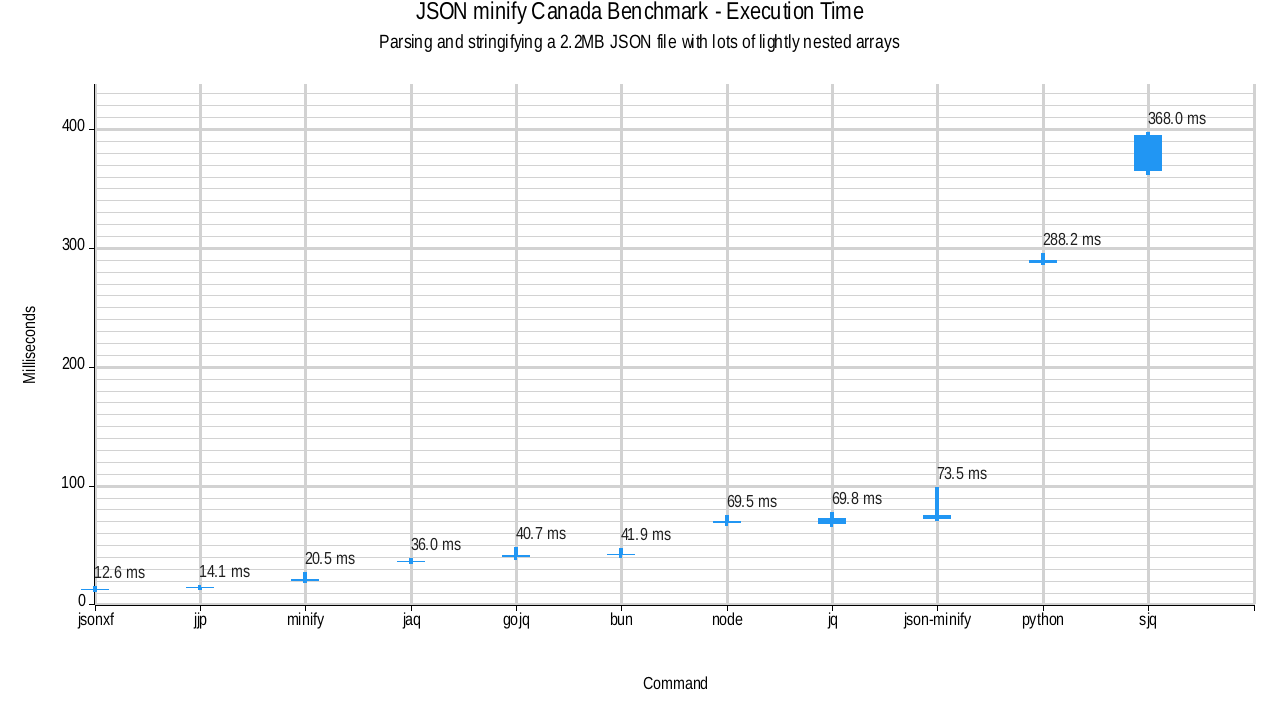
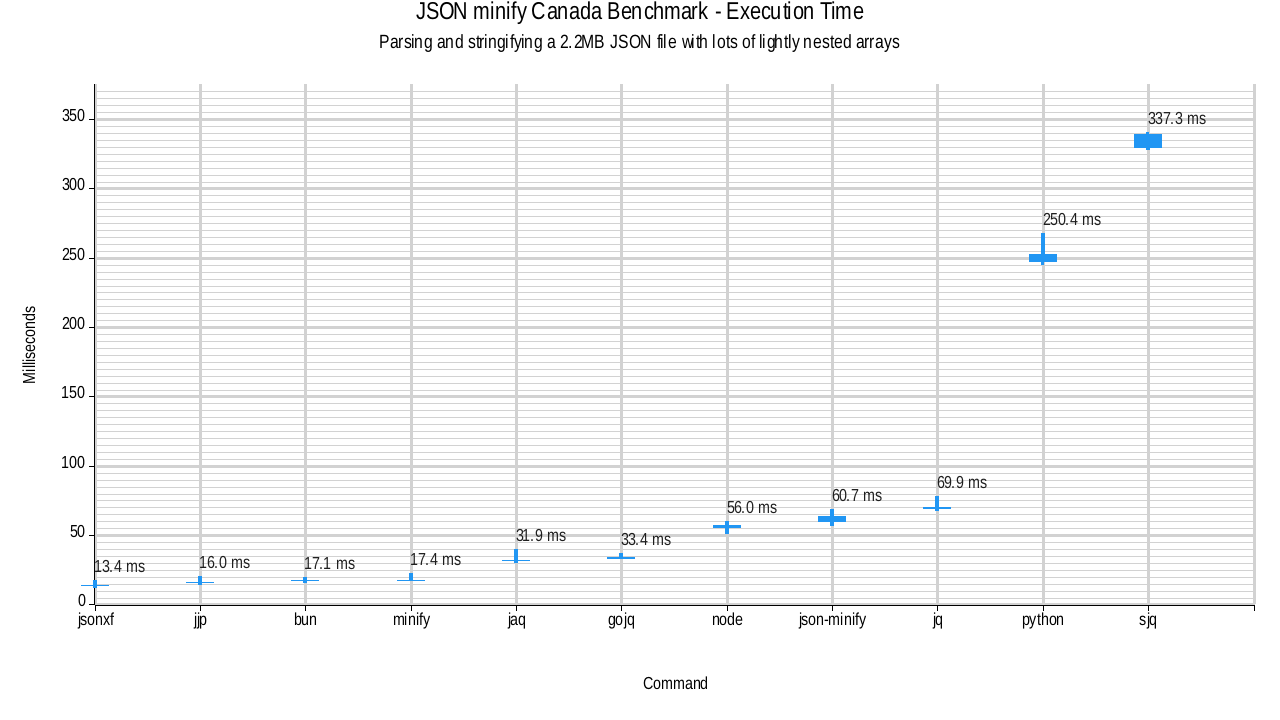
docs: regenerate cli formatter benchmarks with hyperfine 2

diff --git a/benches/cli-formatter.md b/benches/cli-formatter.md
@@ -21,41 +21,41 @@ The following JSON fixtures are used across benchmarks:
 
 ![candlestick benchmark for pretty printing canada.json](/benches/docker/output/pretty-canada.png)
 
-| Command        |     Mean [ms] | Min [ms] | Max [ms] |     Relative |
-| :------------- | ------------: | -------: | -------: | -----------: |
-| `jsonxf`       |    13.0 ± 0.9 |     12.0 |     18.7 |         1.00 |
-| `jsonformat`   |    14.2 ± 0.6 |     13.4 |     17.6 |  1.09 ± 0.09 |
-| `jsonice`      |    22.0 ± 1.3 |     20.3 |     28.5 |  1.69 ± 0.15 |
-| `json-pp-rust` |    29.9 ± 2.0 |     27.4 |     36.2 |  2.30 ± 0.22 |
-| `jjp`          |    34.1 ± 8.1 |     27.9 |     66.6 |  2.63 ± 0.65 |
-| `gojq`         |    39.0 ± 1.7 |     36.6 |     48.0 |  3.00 ± 0.24 |
-| `jaq`          |    48.6 ± 1.4 |     46.8 |     54.4 |  3.74 ± 0.27 |
-| `bun`          |    54.3 ± 2.2 |     51.8 |     61.9 |  4.18 ± 0.32 |
-| `node`         |    84.5 ± 1.4 |     81.6 |     87.3 |  6.51 ± 0.44 |
-| `jq`           |    93.2 ± 1.4 |     91.5 |     99.0 |  7.18 ± 0.49 |
-| `python`       |   313.0 ± 3.5 |    307.6 |    319.1 | 24.11 ± 1.61 |
-| `sjq`          |   465.8 ± 5.2 |    459.6 |    477.5 | 35.89 ± 2.40 |
-| `dprint`       |  670.6 ± 10.5 |    654.1 |    692.0 | 51.66 ± 3.50 |
-| `prettier`     | 1143.1 ± 28.5 |   1108.3 |   1206.0 | 88.06 ± 6.21 |
-| `oxfmt`        | 1188.2 ± 18.2 |   1171.0 |   1231.9 | 91.54 ± 6.19 |
+| Command        | Mean Wall Time [ms] |   Change | Factor         |
+| :------------- | ------------------: | -------: | :------------- |
+| `jjp`          |          29.6 ± 1.8 |          |                |
+| `json-pp-rust` |          27.0 ± 1.5 |    -8.6% |                |
+| `jsonice`      |          24.7 ± 0.3 |   -16.5% |                |
+| `prettier`     |       1091.1 ± 23.9 | +3586.0% | (36.9x slower) |
+| `jq`           |         102.2 ± 1.3 |  +245.4% | (3.5x slower)  |
+| `gojq`         |          38.8 ± 1.4 |   +31.0% | (1.3x slower)  |
+| `jaq`          |          41.7 ± 2.5 |   +41.0% | (1.4x slower)  |
+| `sjq`          |         419.9 ± 2.5 | +1318.5% | (14.2x slower) |
+| `dprint`       |         413.1 ± 7.3 | +1295.7% | (14.0x slower) |
+| `python`       |         274.8 ± 2.6 |  +828.4% | (9.3x slower)  |
+| `node`         |          67.7 ± 1.8 |  +128.7% | (2.3x slower)  |
+| `bun`          |          24.1 ± 0.7 |   -18.5% |                |
+| `jsonxf`       |          12.4 ± 0.3 |   -58.1% | (2.4x faster)  |
+| `jsonformat`   |          15.9 ± 0.9 |   -46.2% | (1.9x faster)  |
+| `oxfmt`        |          95.3 ± 5.5 |  +221.8% | (3.2x slower)  |
 
 ### ugly canada
 
 ![candlestick benchmark for ugly printing canada.json](/benches/docker/output/ugly-canada.png)
 
-| Command       |    Mean [ms] | Min [ms] | Max [ms] |     Relative |
-| :------------ | -----------: | -------: | -------: | -----------: |
-| `jsonxf`      |   12.6 ± 0.5 |     11.5 |     15.3 |         1.00 |
-| `jjp`         |   14.3 ± 0.6 |     13.3 |     16.8 |  1.13 ± 0.06 |
-| `minify`      |   20.9 ± 1.4 |     19.2 |     27.0 |  1.65 ± 0.13 |
-| `jaq`         |   36.1 ± 0.9 |     34.7 |     39.2 |  2.86 ± 0.13 |
-| `gojq`        |   41.2 ± 1.6 |     38.6 |     48.4 |  3.25 ± 0.18 |
-| `bun`         |   42.1 ± 1.2 |     40.2 |     47.2 |  3.33 ± 0.16 |
-| `node`        |   69.7 ± 1.6 |     66.5 |     75.1 |  5.51 ± 0.25 |
-| `jq`          |   70.5 ± 3.3 |     65.8 |     77.9 |  5.57 ± 0.34 |
-| `json-minify` |   74.5 ± 4.7 |     71.3 |     99.2 |  5.89 ± 0.44 |
-| `python`      |  289.0 ± 2.9 |    286.4 |    295.8 | 22.86 ± 0.91 |
-| `sjq`         | 377.5 ± 16.1 |    361.1 |    397.7 | 29.85 ± 1.72 |
+| Command       | Mean Wall Time [ms] |   Change | Factor         |
+| :------------ | ------------------: | -------: | :------------- |
+| `jjp`         |          16.2 ± 1.0 |          |                |
+| `json-minify` |          61.8 ± 3.1 |  +282.2% | (3.8x slower)  |
+| `jsonxf`      |          13.6 ± 0.9 |   -16.1% |                |
+| `jq`          |          70.1 ± 2.1 |  +333.6% | (4.3x slower)  |
+| `jaq`         |          32.1 ± 1.2 |   +98.7% | (2.0x slower)  |
+| `gojq`        |          33.6 ± 0.7 |  +107.9% | (2.1x slower)  |
+| `sjq`         |         335.1 ± 5.2 | +1971.6% | (20.7x slower) |
+| `python`      |         251.3 ± 6.4 | +1453.6% | (15.5x slower) |
+| `minify`      |          17.5 ± 0.6 |    +8.3% |                |
+| `node`        |          55.9 ± 1.8 |  +245.3% | (3.5x slower)  |
+| `bun`         |          17.1 ± 0.6 |    +5.4% |                |
 
 ## citm catalog
 
@@ -65,41 +65,41 @@ The following JSON fixtures are used across benchmarks:
 
 ![candlestick benchmark for pretty printing citm-catalog.json](/benches/docker/output/pretty-citm_catalog.png)
 
-| Command        |    Mean [ms] | Min [ms] | Max [ms] |       Relative |
-| :------------- | -----------: | -------: | -------: | -------------: |
-| `jsonxf`       |    4.9 ± 0.4 |      4.4 |      7.7 |           1.00 |
-| `jsonice`      |    7.9 ± 0.4 |      7.3 |     11.4 |    1.61 ± 0.15 |
-| `jsonformat`   |    8.2 ± 0.5 |      7.4 |     12.7 |    1.68 ± 0.17 |
-| `jjp`          |   11.2 ± 1.0 |     10.3 |     21.4 |    2.29 ± 0.26 |
-| `json-pp-rust` |   15.5 ± 1.3 |     14.0 |     23.9 |    3.18 ± 0.37 |
-| `jaq`          |   19.4 ± 0.9 |     18.3 |     25.5 |    3.97 ± 0.35 |
-| `gojq`         |   28.4 ± 1.4 |     26.8 |     36.4 |    5.80 ± 0.52 |
-| `jq`           |   36.6 ± 1.0 |     35.0 |     39.7 |    7.48 ± 0.60 |
-| `bun`          |   39.4 ± 1.6 |     37.1 |     44.1 |    8.05 ± 0.70 |
-| `node`         |   53.7 ± 2.2 |     50.9 |     60.1 |   10.98 ± 0.94 |
-| `sjq`          |  135.8 ± 2.6 |    133.1 |    144.3 |   27.76 ± 2.18 |
-| `dprint`       |  154.2 ± 4.8 |    148.7 |    168.6 |   31.52 ± 2.59 |
-| `python`       |  191.5 ± 3.1 |    187.2 |    199.2 |   39.14 ± 3.05 |
-| `prettier`     | 593.5 ± 19.0 |    579.3 |    640.5 | 121.32 ± 10.02 |
-| `oxfmt`        | 712.7 ± 15.1 |    696.1 |    746.2 | 145.68 ± 11.51 |
+| Command        | Mean Wall Time [ms] |   Change | Factor         |
+| :------------- | ------------------: | -------: | :------------- |
+| `jjp`          |           8.6 ± 0.2 |          |                |
+| `json-pp-rust` |          11.3 ± 1.2 |   +31.4% | (1.3x slower)  |
+| `jsonice`      |           6.4 ± 0.1 |   -25.5% |                |
+| `prettier`     |        502.0 ± 13.9 | +5741.6% | (58.4x slower) |
+| `jq`           |          31.7 ± 0.5 |  +269.1% | (3.7x slower)  |
+| `gojq`         |          19.4 ± 0.6 |  +125.6% | (2.3x slower)  |
+| `jaq`          |          15.0 ± 0.6 |   +74.1% | (1.7x slower)  |
+| `sjq`          |         106.8 ± 1.4 | +1142.5% | (12.4x slower) |
+| `dprint`       |         211.4 ± 3.3 | +2360.4% | (24.6x slower) |
+| `python`       |        171.3 ± 16.5 | +1893.2% | (19.9x slower) |
+| `node`         |          41.5 ± 2.7 |  +382.9% | (4.8x slower)  |
+| `bun`          |          13.7 ± 0.9 |   +60.0% | (1.6x slower)  |
+| `jsonxf`       |           3.4 ± 0.2 |   -60.6% | (2.5x faster)  |
+| `jsonformat`   |           5.2 ± 0.2 |   -39.4% | (1.7x faster)  |
+| `oxfmt`        |          49.3 ± 2.4 |  +473.7% | (5.7x slower)  |
 
 ### ugly citm catalog
 
 ![candlestick benchmark for ugly printing citm-catalog.json](/benches/docker/output/ugly-citm_catalog.png)
 
-| Command       |   Mean [ms] | Min [ms] | Max [ms] |     Relative |
-| :------------ | ----------: | -------: | -------: | -----------: |
-| `jsonxf`      |   4.7 ± 0.3 |      4.3 |      7.3 |         1.00 |
-| `jjp`         |   6.6 ± 0.4 |      6.1 |      9.2 |  1.41 ± 0.13 |
-| `minify`      |  14.9 ± 3.2 |     13.2 |     56.2 |  3.16 ± 0.72 |
-| `jaq`         |  15.8 ± 0.9 |     14.8 |     21.8 |  3.35 ± 0.30 |
-| `gojq`        |  27.9 ± 1.3 |     26.2 |     34.0 |  5.91 ± 0.51 |
-| `jq`          |  31.4 ± 1.2 |     30.0 |     37.4 |  6.65 ± 0.53 |
-| `bun`         |  33.8 ± 1.5 |     31.7 |     40.5 |  7.16 ± 0.60 |
-| `node`        |  46.9 ± 2.1 |     43.2 |     52.5 |  9.94 ± 0.83 |
-| `json-minify` |  50.1 ± 2.2 |     45.7 |     56.2 | 10.62 ± 0.89 |
-| `sjq`         | 112.8 ± 1.5 |    110.8 |    116.6 | 23.90 ± 1.73 |
-| `python`      | 186.0 ± 6.1 |    181.6 |    205.7 | 39.41 ± 3.08 |
+| Command       | Mean Wall Time [ms] |   Change | Factor         |
+| :------------ | ------------------: | -------: | :------------- |
+| `jjp`         |           5.0 ± 0.2 |          |                |
+| `json-minify` |          40.3 ± 1.9 |  +703.0% | (8.0x slower)  |
+| `jsonxf`      |           3.6 ± 0.1 |   -29.3% |                |
+| `jq`          |          27.0 ± 1.2 |  +436.6% | (5.4x slower)  |
+| `jaq`         |          12.8 ± 0.3 |  +154.3% | (2.5x slower)  |
+| `gojq`        |          18.9 ± 0.5 |  +276.2% | (3.8x slower)  |
+| `sjq`         |          88.3 ± 1.1 | +1658.0% | (17.6x slower) |
+| `python`      |         150.2 ± 1.2 | +2889.7% | (29.9x slower) |
+| `minify`      |           7.3 ± 0.3 |   +45.8% | (1.5x slower)  |
+| `node`        |          34.7 ± 1.6 |  +591.5% | (6.9x slower)  |
+| `bun`         |           9.9 ± 0.3 |   +97.5% | (2.0x slower)  |
 
 ## twitter
 
@@ -109,38 +109,38 @@ The following JSON fixtures are used across benchmarks:
 
 ![candlestick benchmark for pretty printing twitter.json](/benches/docker/output/pretty-twitter.png)
 
-| Command        |    Mean [ms] | Min [ms] | Max [ms] |       Relative |
-| :------------- | -----------: | -------: | -------: | -------------: |
-| `jsonxf`       |    2.1 ± 0.3 |      1.7 |      4.6 |           1.00 |
-| `jsonformat`   |    3.7 ± 0.3 |      3.3 |      6.2 |    1.70 ± 0.29 |
-| `jsonice`      |    4.1 ± 0.3 |      3.6 |      6.7 |    1.91 ± 0.33 |
-| `jjp`          |    5.3 ± 0.4 |      4.7 |      7.7 |    2.47 ± 0.42 |
-| `json-pp-rust` |    6.4 ± 0.5 |      5.8 |      9.4 |    2.98 ± 0.50 |
-| `jaq`          |   10.0 ± 0.5 |      9.3 |     13.0 |    4.68 ± 0.76 |
-| `gojq`         |   15.2 ± 2.1 |     13.0 |     39.0 |    7.09 ± 1.46 |
-| `jq`           |   17.2 ± 0.6 |     16.5 |     20.0 |    8.00 ± 1.26 |
-| `bun`          |   26.6 ± 1.1 |     24.8 |     31.2 |   12.42 ± 1.97 |
-| `node`         |   43.6 ± 2.1 |     40.8 |     51.3 |   20.33 ± 3.27 |
-| `sjq`          |   45.1 ± 1.5 |     43.2 |     50.6 |   21.02 ± 3.30 |
-| `dprint`       |   61.6 ± 1.5 |     59.1 |     65.0 |   28.72 ± 4.47 |
-| `python`       |  162.7 ± 5.9 |    156.6 |    181.0 |  75.86 ± 11.96 |
-| `prettier`     | 359.8 ± 16.8 |    333.6 |    385.7 | 167.83 ± 26.93 |
-| `oxfmt`        | 444.5 ± 13.6 |    431.5 |    478.5 | 207.30 ± 32.44 |
+| Command        | Mean Wall Time [ms] |   Change | Factor         |
+| :------------- | ------------------: | -------: | :------------- |
+| `jjp`          |           4.2 ± 0.1 |          |                |
+| `json-pp-rust` |           5.2 ± 0.1 |   +22.6% |                |
+| `jsonice`      |           3.9 ± 0.1 |    -7.3% |                |
+| `prettier`     |         275.4 ± 5.8 | +6439.0% | (65.4x slower) |
+| `jq`           |          15.5 ± 0.7 |  +267.4% | (3.7x slower)  |
+| `gojq`         |          12.1 ± 0.8 |  +186.2% | (2.9x slower)  |
+| `jaq`          |           8.4 ± 0.6 |  +100.0% | (2.0x slower)  |
+| `sjq`          |          40.5 ± 0.6 |  +862.1% | (9.6x slower)  |
+| `dprint`       |          42.8 ± 1.0 |  +916.7% | (10.2x slower) |
+| `python`       |         126.4 ± 1.4 | +2901.9% | (30.0x slower) |
+| `node`         |          32.4 ± 1.4 |  +669.6% | (7.7x slower)  |
+| `bun`          |           8.1 ± 0.3 |   +93.1% | (1.9x slower)  |
+| `jsonxf`       |           1.7 ± 0.1 |   -58.6% | (2.4x faster)  |
+| `jsonformat`   |           3.2 ± 0.1 |   -24.3% |                |
+| `oxfmt`        |          44.1 ± 2.1 |  +946.0% | (10.5x slower) |
 
 ### ugly twitter
 
 ![candlestick benchmark for ugly printing twitter.json](/benches/docker/output/ugly-twitter.png)
 
-| Command       |   Mean [ms] | Min [ms] | Max [ms] |     Relative |
-| :------------ | ----------: | -------: | -------: | -----------: |
-| `jsonxf`      |   2.2 ± 0.2 |      1.9 |      3.7 |         1.00 |
-| `jjp`         |   4.0 ± 0.3 |      3.6 |      6.7 |  1.84 ± 0.23 |
-| `minify`      |   7.7 ± 2.1 |      6.6 |     46.2 |  3.50 ± 1.02 |
-| `jaq`         |   9.0 ± 0.6 |      8.3 |     13.3 |  4.07 ± 0.46 |
-| `gojq`        |  14.1 ± 0.7 |     12.8 |     16.5 |  6.42 ± 0.67 |
-| `jq`          |  14.9 ± 1.1 |     13.8 |     20.7 |  6.78 ± 0.80 |
-| `bun`         |  26.1 ± 1.7 |     23.6 |     33.8 | 11.86 ± 1.32 |
-| `sjq`         |  39.2 ± 2.2 |     37.0 |     49.5 | 17.85 ± 1.92 |
-| `node`        |  41.5 ± 2.5 |     38.9 |     54.6 | 18.87 ± 2.07 |
-| `json-minify` |  43.4 ± 1.6 |     40.8 |     47.1 | 19.74 ± 1.95 |
-| `python`      | 161.1 ± 4.6 |    156.7 |    174.6 | 73.26 ± 7.03 |
+| Command       | Mean Wall Time [ms] |   Change | Factor         |
+| :------------ | ------------------: | -------: | :------------- |
+| `jjp`         |           3.0 ± 0.1 |          |                |
+| `json-minify` |          33.5 ± 1.8 | +1032.1% | (11.3x slower) |
+| `jsonxf`      |           1.7 ± 0.1 |   -42.2% | (1.7x faster)  |
+| `jq`          |          13.6 ± 0.4 |  +358.6% | (4.6x slower)  |
+| `jaq`         |           7.5 ± 0.3 |  +152.2% | (2.5x slower)  |
+| `gojq`        |          11.4 ± 0.4 |  +286.2% | (3.9x slower)  |
+| `sjq`         |          34.8 ± 1.2 | +1076.4% | (11.8x slower) |
+| `python`      |         124.1 ± 2.2 | +4095.8% | (42.0x slower) |
+| `minify`      |           5.4 ± 0.4 |   +81.5% | (1.8x slower)  |
+| `node`        |          30.2 ± 1.0 |  +921.2% | (10.2x slower) |
+| `bun`         |           8.0 ± 0.7 |  +171.6% | (2.7x slower)  |

diff --git a/benches/docker/output/pretty-citm_catalog.md b/benches/docker/output/pretty-citm_catalog.md
@@ -1,17 +1,17 @@
-| Command | Mean [ms] | Min [ms] | Max [ms] | Relative |
-|:---|---:|---:|---:|---:|
-| `jsonxf` | 4.9 ± 0.4 | 4.4 | 7.7 | 1.00 |
-| `jsonice` | 7.9 ± 0.4 | 7.3 | 11.4 | 1.61 ± 0.15 |
-| `jsonformat` | 8.2 ± 0.5 | 7.4 | 12.7 | 1.68 ± 0.17 |
-| `jjp` | 11.2 ± 1.0 | 10.3 | 21.4 | 2.29 ± 0.26 |
-| `json-pp-rust` | 15.5 ± 1.3 | 14.0 | 23.9 | 3.18 ± 0.37 |
-| `jaq` | 19.4 ± 0.9 | 18.3 | 25.5 | 3.97 ± 0.35 |
-| `gojq` | 28.4 ± 1.4 | 26.8 | 36.4 | 5.80 ± 0.52 |
-| `jq` | 36.6 ± 1.0 | 35.0 | 39.7 | 7.48 ± 0.60 |
-| `bun` | 39.4 ± 1.6 | 37.1 | 44.1 | 8.05 ± 0.70 |
-| `node` | 53.7 ± 2.2 | 50.9 | 60.1 | 10.98 ± 0.94 |
-| `sjq` | 135.8 ± 2.6 | 133.1 | 144.3 | 27.76 ± 2.18 |
-| `dprint` | 154.2 ± 4.8 | 148.7 | 168.6 | 31.52 ± 2.59 |
-| `python` | 191.5 ± 3.1 | 187.2 | 199.2 | 39.14 ± 3.05 |
-| `prettier` | 593.5 ± 19.0 | 579.3 | 640.5 | 121.32 ± 10.02 |
-| `oxfmt` | 712.7 ± 15.1 | 696.1 | 746.2 | 145.68 ± 11.51 |
+| Command | Mean Wall Time [ms] | Change | Factor |
+|:---|---:|---:|:---|
+| `jjp` | 8.6 ± 0.2 |  |  |
+| `json-pp-rust` | 11.3 ± 1.2 | +31.4% | (1.3x slower) |
+| `jsonice` | 6.4 ± 0.1 | -25.5% |  |
+| `prettier` | 502.0 ± 13.9 | +5741.6% | (58.4x slower) |
+| `jq` | 31.7 ± 0.5 | +269.1% | (3.7x slower) |
+| `gojq` | 19.4 ± 0.6 | +125.6% | (2.3x slower) |
+| `jaq` | 15.0 ± 0.6 | +74.1% | (1.7x slower) |
+| `sjq` | 106.8 ± 1.4 | +1142.5% | (12.4x slower) |
+| `dprint` | 211.4 ± 3.3 | +2360.4% | (24.6x slower) |
+| `python` | 171.3 ± 16.5 | +1893.2% | (19.9x slower) |
+| `node` | 41.5 ± 2.7 | +382.9% | (4.8x slower) |
+| `bun` | 13.7 ± 0.9 | +60.0% | (1.6x slower) |
+| `jsonxf` | 3.4 ± 0.2 | -60.6% | (2.5x faster) |
+| `jsonformat` | 5.2 ± 0.2 | -39.4% | (1.7x faster) |
+| `oxfmt` | 49.3 ± 2.4 | +473.7% | (5.7x slower) |

diff --git a/benches/docker/output/pretty-canada.md b/benches/docker/output/pretty-canada.md
@@ -1,17 +1,17 @@
-| Command | Mean [ms] | Min [ms] | Max [ms] | Relative |
-|:---|---:|---:|---:|---:|
-| `jsonxf` | 13.0 ± 0.9 | 12.0 | 18.7 | 1.00 |
-| `jsonformat` | 14.2 ± 0.6 | 13.4 | 17.6 | 1.09 ± 0.09 |
-| `jsonice` | 22.0 ± 1.3 | 20.3 | 28.5 | 1.69 ± 0.15 |
-| `json-pp-rust` | 29.9 ± 2.0 | 27.4 | 36.2 | 2.30 ± 0.22 |
-| `jjp` | 34.1 ± 8.1 | 27.9 | 66.6 | 2.63 ± 0.65 |
-| `gojq` | 39.0 ± 1.7 | 36.6 | 48.0 | 3.00 ± 0.24 |
-| `jaq` | 48.6 ± 1.4 | 46.8 | 54.4 | 3.74 ± 0.27 |
-| `bun` | 54.3 ± 2.2 | 51.8 | 61.9 | 4.18 ± 0.32 |
-| `node` | 84.5 ± 1.4 | 81.6 | 87.3 | 6.51 ± 0.44 |
-| `jq` | 93.2 ± 1.4 | 91.5 | 99.0 | 7.18 ± 0.49 |
-| `python` | 313.0 ± 3.5 | 307.6 | 319.1 | 24.11 ± 1.61 |
-| `sjq` | 465.8 ± 5.2 | 459.6 | 477.5 | 35.89 ± 2.40 |
-| `dprint` | 670.6 ± 10.5 | 654.1 | 692.0 | 51.66 ± 3.50 |
-| `prettier` | 1143.1 ± 28.5 | 1108.3 | 1206.0 | 88.06 ± 6.21 |
-| `oxfmt` | 1188.2 ± 18.2 | 1171.0 | 1231.9 | 91.54 ± 6.19 |
+| Command | Mean Wall Time [ms] | Change | Factor |
+|:---|---:|---:|:---|
+| `jjp` | 29.6 ± 1.8 |  |  |
+| `json-pp-rust` | 27.0 ± 1.5 | -8.6% |  |
+| `jsonice` | 24.7 ± 0.3 | -16.5% |  |
+| `prettier` | 1091.1 ± 23.9 | +3586.0% | (36.9x slower) |
+| `jq` | 102.2 ± 1.3 | +245.4% | (3.5x slower) |
+| `gojq` | 38.8 ± 1.4 | +31.0% | (1.3x slower) |
+| `jaq` | 41.7 ± 2.5 | +41.0% | (1.4x slower) |
+| `sjq` | 419.9 ± 2.5 | +1318.5% | (14.2x slower) |
+| `dprint` | 413.1 ± 7.3 | +1295.7% | (14.0x slower) |
+| `python` | 274.8 ± 2.6 | +828.4% | (9.3x slower) |
+| `node` | 67.7 ± 1.8 | +128.7% | (2.3x slower) |
+| `bun` | 24.1 ± 0.7 | -18.5% |  |
+| `jsonxf` | 12.4 ± 0.3 | -58.1% | (2.4x faster) |
+| `jsonformat` | 15.9 ± 0.9 | -46.2% | (1.9x faster) |
+| `oxfmt` | 95.3 ± 5.5 | +221.8% | (3.2x slower) |

diff --git a/benches/docker/output/pretty-twitter.md b/benches/docker/output/pretty-twitter.md
@@ -1,17 +1,17 @@
-| Command | Mean [ms] | Min [ms] | Max [ms] | Relative |
-|:---|---:|---:|---:|---:|
-| `jsonxf` | 2.1 ± 0.3 | 1.7 | 4.6 | 1.00 |
-| `jsonformat` | 3.7 ± 0.3 | 3.3 | 6.2 | 1.70 ± 0.29 |
-| `jsonice` | 4.1 ± 0.3 | 3.6 | 6.7 | 1.91 ± 0.33 |
-| `jjp` | 5.3 ± 0.4 | 4.7 | 7.7 | 2.47 ± 0.42 |
-| `json-pp-rust` | 6.4 ± 0.5 | 5.8 | 9.4 | 2.98 ± 0.50 |
-| `jaq` | 10.0 ± 0.5 | 9.3 | 13.0 | 4.68 ± 0.76 |
-| `gojq` | 15.2 ± 2.1 | 13.0 | 39.0 | 7.09 ± 1.46 |
-| `jq` | 17.2 ± 0.6 | 16.5 | 20.0 | 8.00 ± 1.26 |
-| `bun` | 26.6 ± 1.1 | 24.8 | 31.2 | 12.42 ± 1.97 |
-| `node` | 43.6 ± 2.1 | 40.8 | 51.3 | 20.33 ± 3.27 |
-| `sjq` | 45.1 ± 1.5 | 43.2 | 50.6 | 21.02 ± 3.30 |
-| `dprint` | 61.6 ± 1.5 | 59.1 | 65.0 | 28.72 ± 4.47 |
-| `python` | 162.7 ± 5.9 | 156.6 | 181.0 | 75.86 ± 11.96 |
-| `prettier` | 359.8 ± 16.8 | 333.6 | 385.7 | 167.83 ± 26.93 |
-| `oxfmt` | 444.5 ± 13.6 | 431.5 | 478.5 | 207.30 ± 32.44 |
+| Command | Mean Wall Time [ms] | Change | Factor |
+|:---|---:|---:|:---|
+| `jjp` | 4.2 ± 0.1 |  |  |
+| `json-pp-rust` | 5.2 ± 0.1 | +22.6% |  |
+| `jsonice` | 3.9 ± 0.1 | -7.3% |  |
+| `prettier` | 275.4 ± 5.8 | +6439.0% | (65.4x slower) |
+| `jq` | 15.5 ± 0.7 | +267.4% | (3.7x slower) |
+| `gojq` | 12.1 ± 0.8 | +186.2% | (2.9x slower) |
+| `jaq` | 8.4 ± 0.6 | +100.0% | (2.0x slower) |
+| `sjq` | 40.5 ± 0.6 | +862.1% | (9.6x slower) |
+| `dprint` | 42.8 ± 1.0 | +916.7% | (10.2x slower) |
+| `python` | 126.4 ± 1.4 | +2901.9% | (30.0x slower) |
+| `node` | 32.4 ± 1.4 | +669.6% | (7.7x slower) |
+| `bun` | 8.1 ± 0.3 | +93.1% | (1.9x slower) |
+| `jsonxf` | 1.7 ± 0.1 | -58.6% | (2.4x faster) |
+| `jsonformat` | 3.2 ± 0.1 | -24.3% |  |
+| `oxfmt` | 44.1 ± 2.1 | +946.0% | (10.5x slower) |

diff --git a/benches/docker/output/ugly-twitter.md b/benches/docker/output/ugly-twitter.md
@@ -1,13 +1,13 @@
-| Command | Mean [ms] | Min [ms] | Max [ms] | Relative |
-|:---|---:|---:|---:|---:|
-| `jsonxf` | 2.2 ± 0.2 | 1.9 | 3.7 | 1.00 |
-| `jjp` | 4.0 ± 0.3 | 3.6 | 6.7 | 1.84 ± 0.23 |
-| `minify` | 7.7 ± 2.1 | 6.6 | 46.2 | 3.50 ± 1.02 |
-| `jaq` | 9.0 ± 0.6 | 8.3 | 13.3 | 4.07 ± 0.46 |
-| `gojq` | 14.1 ± 0.7 | 12.8 | 16.5 | 6.42 ± 0.67 |
-| `jq` | 14.9 ± 1.1 | 13.8 | 20.7 | 6.78 ± 0.80 |
-| `bun` | 26.1 ± 1.7 | 23.6 | 33.8 | 11.86 ± 1.32 |
-| `sjq` | 39.2 ± 2.2 | 37.0 | 49.5 | 17.85 ± 1.92 |
-| `node` | 41.5 ± 2.5 | 38.9 | 54.6 | 18.87 ± 2.07 |
-| `json-minify` | 43.4 ± 1.6 | 40.8 | 47.1 | 19.74 ± 1.95 |
-| `python` | 161.1 ± 4.6 | 156.7 | 174.6 | 73.26 ± 7.03 |
+| Command | Mean Wall Time [ms] | Change | Factor |
+|:---|---:|---:|:---|
+| `jjp` | 3.0 ± 0.1 |  |  |
+| `json-minify` | 33.5 ± 1.8 | +1032.1% | (11.3x slower) |
+| `jsonxf` | 1.7 ± 0.1 | -42.2% | (1.7x faster) |
+| `jq` | 13.6 ± 0.4 | +358.6% | (4.6x slower) |
+| `jaq` | 7.5 ± 0.3 | +152.2% | (2.5x slower) |
+| `gojq` | 11.4 ± 0.4 | +286.2% | (3.9x slower) |
+| `sjq` | 34.8 ± 1.2 | +1076.4% | (11.8x slower) |
+| `python` | 124.1 ± 2.2 | +4095.8% | (42.0x slower) |
+| `minify` | 5.4 ± 0.4 | +81.5% | (1.8x slower) |
+| `node` | 30.2 ± 1.0 | +921.2% | (10.2x slower) |
+| `bun` | 8.0 ± 0.7 | +171.6% | (2.7x slower) |

diff --git a/benches/docker/output/ugly-citm_catalog.md b/benches/docker/output/ugly-citm_catalog.md
@@ -1,13 +1,13 @@
-| Command | Mean [ms] | Min [ms] | Max [ms] | Relative |
-|:---|---:|---:|---:|---:|
-| `jsonxf` | 4.7 ± 0.3 | 4.3 | 7.3 | 1.00 |
-| `jjp` | 6.6 ± 0.4 | 6.1 | 9.2 | 1.41 ± 0.13 |
-| `minify` | 14.9 ± 3.2 | 13.2 | 56.2 | 3.16 ± 0.72 |
-| `jaq` | 15.8 ± 0.9 | 14.8 | 21.8 | 3.35 ± 0.30 |
-| `gojq` | 27.9 ± 1.3 | 26.2 | 34.0 | 5.91 ± 0.51 |
-| `jq` | 31.4 ± 1.2 | 30.0 | 37.4 | 6.65 ± 0.53 |
-| `bun` | 33.8 ± 1.5 | 31.7 | 40.5 | 7.16 ± 0.60 |
-| `node` | 46.9 ± 2.1 | 43.2 | 52.5 | 9.94 ± 0.83 |
-| `json-minify` | 50.1 ± 2.2 | 45.7 | 56.2 | 10.62 ± 0.89 |
-| `sjq` | 112.8 ± 1.5 | 110.8 | 116.6 | 23.90 ± 1.73 |
-| `python` | 186.0 ± 6.1 | 181.6 | 205.7 | 39.41 ± 3.08 |
+| Command | Mean Wall Time [ms] | Change | Factor |
+|:---|---:|---:|:---|
+| `jjp` | 5.0 ± 0.2 |  |  |
+| `json-minify` | 40.3 ± 1.9 | +703.0% | (8.0x slower) |
+| `jsonxf` | 3.6 ± 0.1 | -29.3% |  |
+| `jq` | 27.0 ± 1.2 | +436.6% | (5.4x slower) |
+| `jaq` | 12.8 ± 0.3 | +154.3% | (2.5x slower) |
+| `gojq` | 18.9 ± 0.5 | +276.2% | (3.8x slower) |
+| `sjq` | 88.3 ± 1.1 | +1658.0% | (17.6x slower) |
+| `python` | 150.2 ± 1.2 | +2889.7% | (29.9x slower) |
+| `minify` | 7.3 ± 0.3 | +45.8% | (1.5x slower) |
+| `node` | 34.7 ± 1.6 | +591.5% | (6.9x slower) |
+| `bun` | 9.9 ± 0.3 | +97.5% | (2.0x slower) |

diff --git a/benches/docker/output/ugly-canada.md b/benches/docker/output/ugly-canada.md
@@ -1,13 +1,13 @@
-| Command | Mean [ms] | Min [ms] | Max [ms] | Relative |
-|:---|---:|---:|---:|---:|
-| `jsonxf` | 12.6 ± 0.5 | 11.5 | 15.3 | 1.00 |
-| `jjp` | 14.3 ± 0.6 | 13.3 | 16.8 | 1.13 ± 0.06 |
-| `minify` | 20.9 ± 1.4 | 19.2 | 27.0 | 1.65 ± 0.13 |
-| `jaq` | 36.1 ± 0.9 | 34.7 | 39.2 | 2.86 ± 0.13 |
-| `gojq` | 41.2 ± 1.6 | 38.6 | 48.4 | 3.25 ± 0.18 |
-| `bun` | 42.1 ± 1.2 | 40.2 | 47.2 | 3.33 ± 0.16 |
-| `node` | 69.7 ± 1.6 | 66.5 | 75.1 | 5.51 ± 0.25 |
-| `jq` | 70.5 ± 3.3 | 65.8 | 77.9 | 5.57 ± 0.34 |
-| `json-minify` | 74.5 ± 4.7 | 71.3 | 99.2 | 5.89 ± 0.44 |
-| `python` | 289.0 ± 2.9 | 286.4 | 295.8 | 22.86 ± 0.91 |
-| `sjq` | 377.5 ± 16.1 | 361.1 | 397.7 | 29.85 ± 1.72 |
+| Command | Mean Wall Time [ms] | Change | Factor |
+|:---|---:|---:|:---|
+| `jjp` | 16.2 ± 1.0 |  |  |
+| `json-minify` | 61.8 ± 3.1 | +282.2% | (3.8x slower) |
+| `jsonxf` | 13.6 ± 0.9 | -16.1% |  |
+| `jq` | 70.1 ± 2.1 | +333.6% | (4.3x slower) |
+| `jaq` | 32.1 ± 1.2 | +98.7% | (2.0x slower) |
+| `gojq` | 33.6 ± 0.7 | +107.9% | (2.1x slower) |
+| `sjq` | 335.1 ± 5.2 | +1971.6% | (20.7x slower) |
+| `python` | 251.3 ± 6.4 | +1453.6% | (15.5x slower) |
+| `minify` | 17.5 ± 0.6 | +8.3% |  |
+| `node` | 55.9 ± 1.8 | +245.3% | (3.5x slower) |
+| `bun` | 17.1 ± 0.6 | +5.4% |  |
